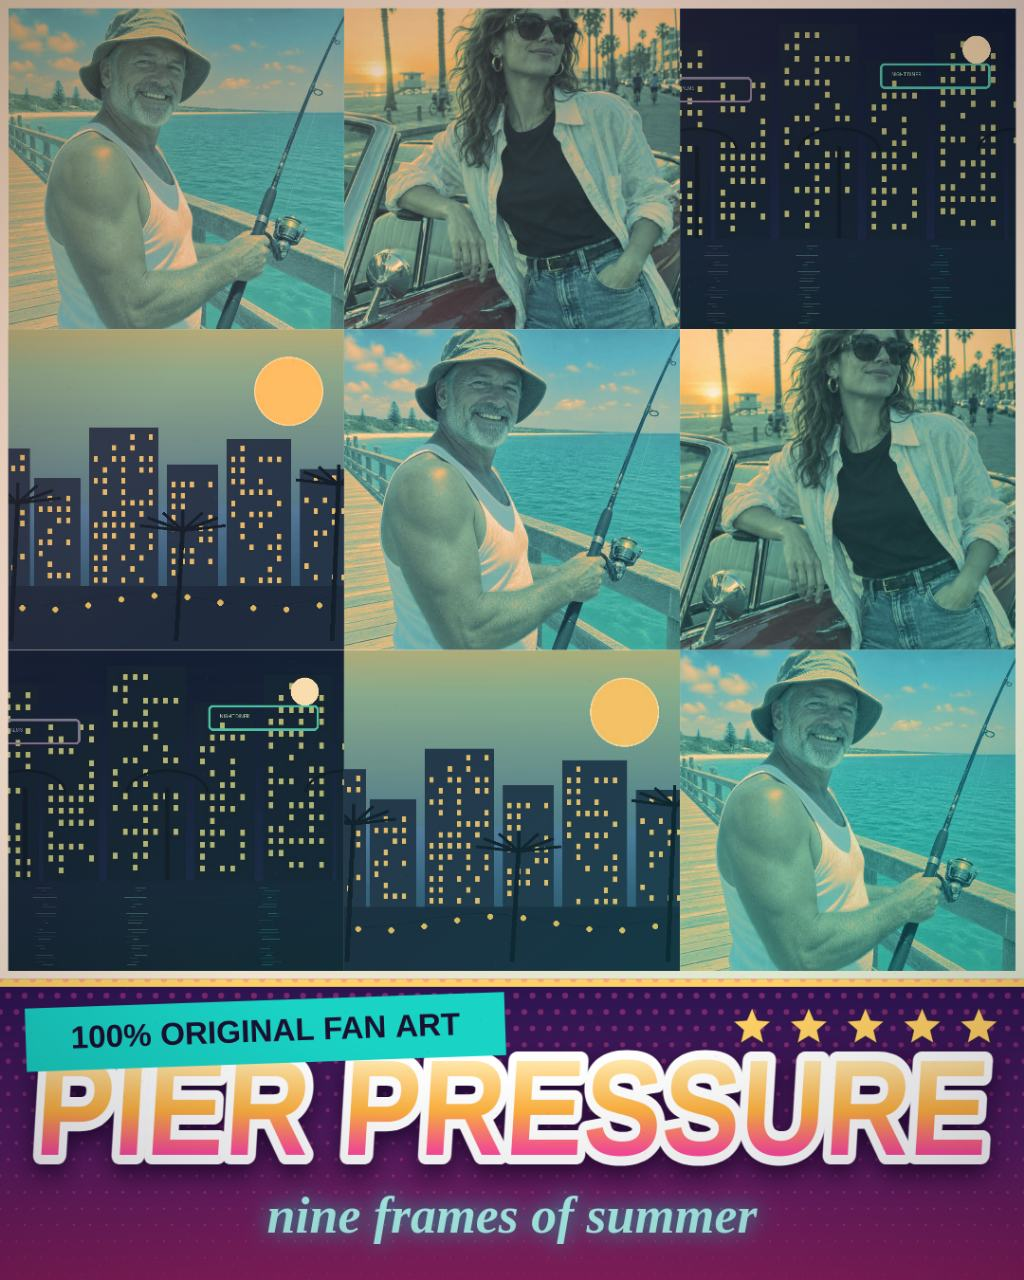
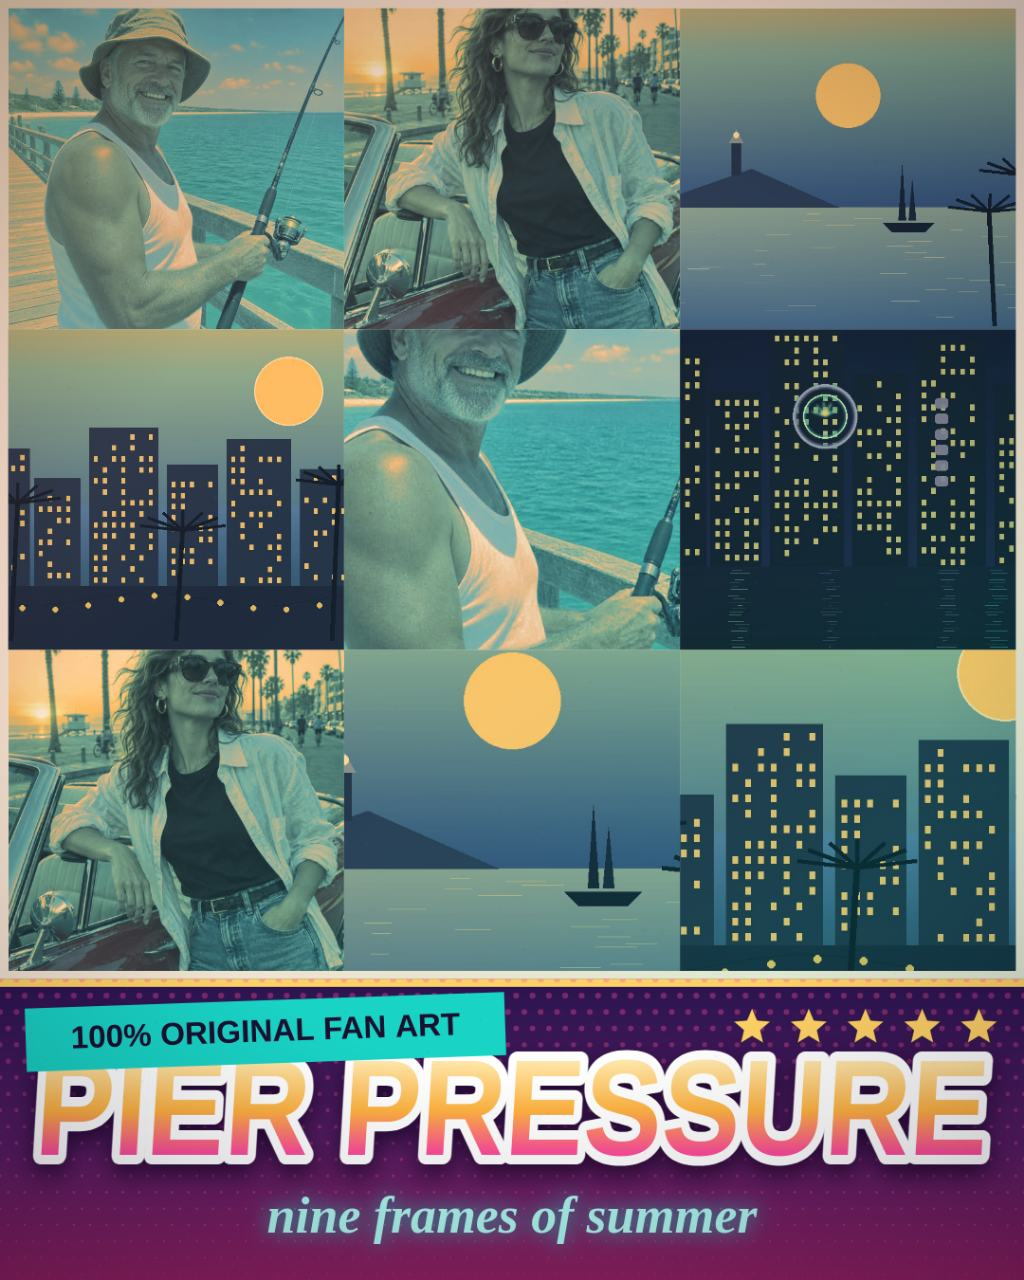
Viceframe quality pass: cleaner neon-night sample, new harbour sample, per-panel shot zooms, taller editor screenshot

diff --git a/app/src/editor.js b/app/src/editor.js
@@ -254,6 +254,7 @@ async function boot() {
     el('caption-title').value = shot.caption;
     el('caption-sub').value = shot.sub;
     resetPanels(0);
+    shot.zooms.forEach((zoom, i) => { if (state.panels[i] && zoom > 0) state.panels[i].zoom = zoom; });
     state.selected = Math.min(shot.panel, state.panels.length - 1);
     if (shot.kind === 'cover') {
       document.body.classList.add('shot-cover');
@@ -269,6 +270,7 @@ async function boot() {
   await addPhoto('samples/rooftop.jpg', 'rooftop');
   await addPhoto('samples/boulevard.jpg', 'boulevard');
   await addPhoto('samples/pier.jpg', 'pier');
+  await addPhoto('samples/harbour.jpg', 'harbour');
   resetPanels(0);
   repaint();
 }

diff --git a/app/index.html b/app/index.html
@@ -25,6 +25,7 @@
         <button type="button" class="chip" data-sample="samples/pier.jpg">Sample: pier</button>
         <button type="button" class="chip" data-sample="samples/neon-night.jpg">Sample: neon night</button>
         <button type="button" class="chip" data-sample="samples/rooftop.jpg">Sample: rooftop</button>
+        <button type="button" class="chip" data-sample="samples/harbour.jpg">Sample: harbour</button>
       </div>
       <div class="thumbs" id="thumbs" aria-label="Loaded photos"></div>
     </section>

diff --git a/app/src/shots.js b/app/src/shots.js
@@ -27,6 +27,7 @@ export function parseShotQuery(search) {
     caption: query.get('caption') ?? 'Neon Coast',
     sub: query.get('sub') ?? 'vice nights, volume one',
     panel: Number(query.get('panel') ?? 0),
+    zooms: (query.get('zooms') ?? '').split(',').filter(Boolean).map(Number),
   };
 }
 
